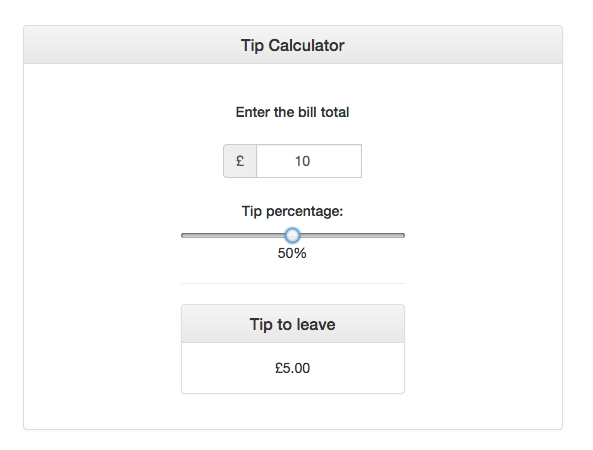
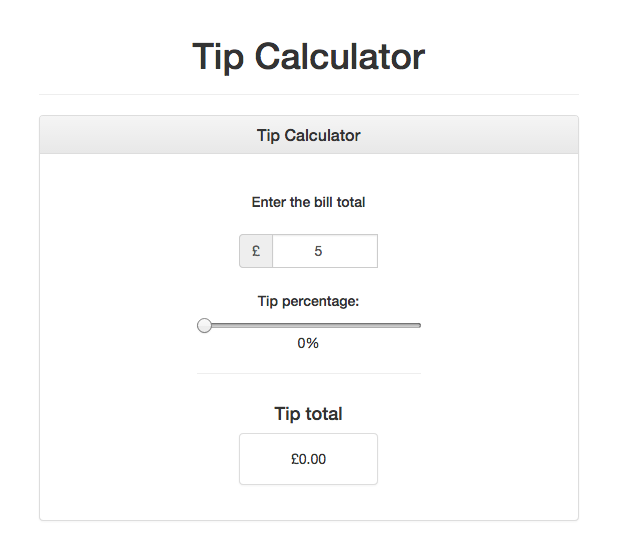
updates

diff --git a/tip-calculator.html b/tip-calculator.html
@@ -65,11 +65,9 @@
 
             <div class="col-md-6 col-md-offset-3"><hr></div>
 
-            <div class="col-md-6 col-md-offset-3 .main-label" >
+            <div class="col-md-4 col-md-offset-4 .main-label" >
+              <h4>Tip total</h3>
               <div class="panel panel-default">
-                <div class="panel-heading">
-                  <h3 class="panel-title">Tip to leave</h3>
-                </div>
                 <div class="panel-body">
                   <span id="tip">£0.00</span>
                 </div>
